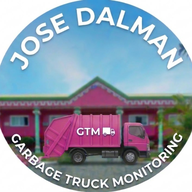
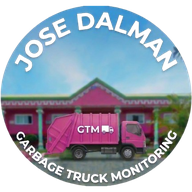
fixing PWA

diff --git a/public/js/admin/reports.js b/public/js/admin/reports.js
@@ -21,6 +21,12 @@ const API = {
             },
             body: JSON.stringify(data)
         });
+    },
+    delete: async (endpoint) => {
+        return fetch(API_URL + endpoint, {
+            method: 'DELETE',
+            headers: { Authorization: 'Bearer ' + getToken() }
+        });
     }
 };
 
@@ -167,6 +173,27 @@ async function resolveReport(id) {
     }
 }
 window.resolveReport = resolveReport;
+
+async function deleteReport(id) {
+    if (!window.confirm(`Permanently delete report #${id}? This cannot be undone.`)) return;
+
+    try {
+        const res = await API.delete(`/admin/reports/${encodeURIComponent(id)}`);
+        const result = await res.json();
+        if (!res.ok) {
+            throw new Error(result.error || result.message || 'Failed to delete report');
+        }
+
+        allReports = allReports.filter(report => String(report.id) !== String(id));
+        updateStatCards(allReports);
+        applyFilters();
+        showToast(result.message || 'Report deleted successfully', 'success');
+    } catch (err) {
+        console.error('Delete report error:', err);
+        showToast(err.message || 'Failed to delete report', 'error');
+    }
+}
+window.deleteReport = deleteReport;
 
 function fitAllPins() {
     const allPins = [...reportMarkers, ...residentMarkers];
@@ -481,9 +508,10 @@ function renderTable(data) {
                 <td class="table-muted" style="font-size:0.7rem;">${fmtDate(r.created_at)}</td>
                 <td><span class="badge ${STATUS_BADGE[r.status] || 'badge-gray'}">${STATUS_LABEL[r.status] || r.status || 'pending'}</span></td>
                 <td style="text-align:center;">${hasImage ? `<img src="${r.image_url}" class="report-img-thumb" onclick="event.stopPropagation();openLightbox('${r.image_url}')" onerror="this.style.display='none'" loading="lazy">` : '—'}</td>
-                <td style="text-align:center;display:flex;gap:4px;justify-content:center;">
+                <td class="report-actions">
                     <button class="btn btn-outline btn-sm btn-icon" onclick='event.stopPropagation();viewReport(${r.id})'><svg xmlns="http://www.w3.org/2000/svg" width="14" height="14" viewBox="0 0 24 24" fill="none" stroke="currentColor" stroke-width="2"><path d="M1 12s4-8 11-8 11 8 11 8-4 8-11 8-11-8-11-8z"/><circle cx="12" cy="12" r="3"/></svg></button>
                     ${r.status !== 'resolved' ? `<button class="btn btn-outline btn-sm btn-icon" title="Mark resolved" onclick='event.stopPropagation();resolveReport(${r.id})'><svg xmlns="http://www.w3.org/2000/svg" width="14" height="14" viewBox="0 0 24 24" fill="none" stroke="currentColor" stroke-width="2"><polyline points="20 6 9 17 4 12"/></svg></button>` : ''}
+                    <button class="btn btn-outline btn-sm btn-icon btn-delete-report" title="Delete report" aria-label="Delete report ${r.id}" onclick='event.stopPropagation();deleteReport(${r.id})'><svg xmlns="http://www.w3.org/2000/svg" width="14" height="14" viewBox="0 0 24 24" fill="none" stroke="currentColor" stroke-width="2" stroke-linecap="round" stroke-linejoin="round"><path d="M3 6h18"/><path d="M8 6V4h8v2"/><path d="m19 6-1 14H6L5 6"/><path d="M10 11v5M14 11v5"/></svg></button>
                 </td>
              </tr>`;
     }).join('');
@@ -654,7 +682,7 @@ async function loadAdminProfile() {
 Object.assign(window, {
     viewReport, viewResident, flyToReport, flyToResident,
     openLightbox, closeLightbox, setDateFilter, setStatusFilter,
-    applyFilters, toggleSat, switchTab, fitAllPins, resolveReport
+    applyFilters, toggleSat, switchTab, fitAllPins, resolveReport, deleteReport
 });
 
 // Boot

diff --git a/public/pages/admin/reports.html b/public/pages/admin/reports.html
@@ -5,7 +5,7 @@
     <meta charset="UTF-8">
     <meta name="theme-color" content="#2f855a">
     <link rel="manifest" href="/manifest.webmanifest">
-    <link rel="icon" type="image/jpeg" href="/images/jose-dalman-logo.jpeg">
+    <link rel="icon" type="image/png" href="/images/jose-dalman-logo.png">
     <link rel="apple-touch-icon" href="/images/apple-touch-icon.png">
     <meta name="apple-mobile-web-app-capable" content="yes">
     <meta name="apple-mobile-web-app-title" content="Jose Dalman">
@@ -280,7 +280,7 @@
                                     <th>Date</th>
                                     <th>Status</th>
                                     <th>Photo</th>
-                                    <th>Map</th>
+                                    <th>Actions</th>
                                 </tr>
                             </thead>
                             <tbody id="reportsBody">

diff --git a/public/pages/residents/resident-dashboard.html b/public/pages/residents/resident-dashboard.html
@@ -6,7 +6,7 @@
     <meta name="viewport" content="width=device-width, initial-scale=1.0, viewport-fit=cover">
     <meta name="theme-color" content="#2f855a">
     <link rel="manifest" href="/manifest.webmanifest">
-    <link rel="icon" type="image/jpeg" href="/images/jose-dalman-logo.jpeg">
+    <link rel="icon" type="image/png" href="/images/jose-dalman-logo.png">
     <link rel="apple-touch-icon" href="/images/apple-touch-icon.png">
     <meta name="apple-mobile-web-app-capable" content="yes">
     <meta name="apple-mobile-web-app-title" content="Jose Dalman">

diff --git a/public/pages/forgot-password.html b/public/pages/forgot-password.html
@@ -6,7 +6,7 @@
     <meta name="viewport" content="width=device-width, initial-scale=1.0">
     <meta name="theme-color" content="#2f855a">
     <link rel="manifest" href="/manifest.webmanifest">
-    <link rel="icon" type="image/jpeg" href="/images/jose-dalman-logo.jpeg">
+    <link rel="icon" type="image/png" href="/images/jose-dalman-logo.png">
     <link rel="apple-touch-icon" href="/images/apple-touch-icon.png">
     <meta name="apple-mobile-web-app-capable" content="yes">
     <meta name="apple-mobile-web-app-title" content="Jose Dalman">

diff --git a/public/pages/login.html b/public/pages/login.html
@@ -6,7 +6,7 @@
     <meta name="viewport" content="width=device-width, initial-scale=1.0">
     <meta name="theme-color" content="#2f855a">
     <link rel="manifest" href="/manifest.webmanifest">
-    <link rel="icon" type="image/jpeg" href="/images/jose-dalman-logo.jpeg">
+    <link rel="icon" type="image/png" href="/images/jose-dalman-logo.png">
     <link rel="apple-touch-icon" href="/images/apple-touch-icon.png">
     <meta name="apple-mobile-web-app-capable" content="yes">
     <meta name="apple-mobile-web-app-title" content="Jose Dalman">

diff --git a/public/pages/register.html b/public/pages/register.html
@@ -6,7 +6,7 @@
     <meta name="viewport" content="width=device-width, initial-scale=1.0">
     <meta name="theme-color" content="#2f855a">
     <link rel="manifest" href="/manifest.webmanifest">
-    <link rel="icon" type="image/jpeg" href="/images/jose-dalman-logo.jpeg">
+    <link rel="icon" type="image/png" href="/images/jose-dalman-logo.png">
     <link rel="apple-touch-icon" href="/images/apple-touch-icon.png">
     <meta name="apple-mobile-web-app-capable" content="yes">
     <meta name="apple-mobile-web-app-title" content="Jose Dalman">

diff --git a/public/pages/verify-email.html b/public/pages/verify-email.html
@@ -6,7 +6,7 @@
     <meta name="viewport" content="width=device-width, initial-scale=1.0">
     <meta name="theme-color" content="#2f855a">
     <link rel="manifest" href="/manifest.webmanifest">
-    <link rel="icon" type="image/jpeg" href="/images/jose-dalman-logo.jpeg">
+    <link rel="icon" type="image/png" href="/images/jose-dalman-logo.png">
     <link rel="apple-touch-icon" href="/images/apple-touch-icon.png">
     <meta name="apple-mobile-web-app-capable" content="yes">
     <meta name="apple-mobile-web-app-title" content="Jose Dalman">

diff --git a/public/css/admin/reports.css b/public/css/admin/reports.css
@@ -5,6 +5,18 @@
             gap: 20px;
             align-items: start;
         }
+.report-actions {
+    display: flex;
+    gap: 4px;
+    justify-content: center;
+}
+.btn-delete-report {
+    color: var(--red) !important;
+}
+.btn-delete-report:hover {
+    border-color: var(--red) !important;
+    background: rgba(248, 113, 113, .12) !important;
+}
 .badge-blue { background: rgba(96,165,250,.15); color: #60a5fa; border: 1px solid rgba(96,165,250,.3); }
         @media (max-width: 1100px) {
             .reports-layout {

diff --git a/public/pages/driver/driver-dashboard.html b/public/pages/driver/driver-dashboard.html
@@ -17,7 +17,7 @@
             document.documentElement.setAttribute("data-theme", theme);
         })();
     </script>
-    <link rel="icon" type="image/jpeg" href="/images/jose-dalman-logo.jpeg">
+    <link rel="icon" type="image/png" href="/images/jose-dalman-logo.png">
     <link rel="stylesheet" href="https://unpkg.com/leaflet@1.9.4/dist/leaflet.css" />
     <script src="https://unpkg.com/leaflet@1.9.4/dist/leaflet.js"></script>
     <script src="https://cdn.socket.io/4.7.2/socket.io.min.js"></script>

diff --git a/public/pages/admin/analytics.html b/public/pages/admin/analytics.html
@@ -5,7 +5,7 @@
     <meta charset="UTF-8">
     <meta name="theme-color" content="#2f855a">
     <link rel="manifest" href="/manifest.webmanifest">
-    <link rel="icon" type="image/jpeg" href="/images/jose-dalman-logo.jpeg">
+    <link rel="icon" type="image/png" href="/images/jose-dalman-logo.png">
     <link rel="apple-touch-icon" href="/images/apple-touch-icon.png">
     <meta name="apple-mobile-web-app-capable" content="yes">
     <meta name="apple-mobile-web-app-title" content="Jose Dalman">

diff --git a/public/pages/admin/announcements.html b/public/pages/admin/announcements.html
@@ -5,7 +5,7 @@
     <meta charset="UTF-8">
     <meta name="theme-color" content="#2f855a">
     <link rel="manifest" href="/manifest.webmanifest">
-    <link rel="icon" type="image/jpeg" href="/images/jose-dalman-logo.jpeg">
+    <link rel="icon" type="image/png" href="/images/jose-dalman-logo.png">
     <link rel="apple-touch-icon" href="/images/apple-touch-icon.png">
     <meta name="apple-mobile-web-app-capable" content="yes">
     <meta name="apple-mobile-web-app-title" content="Jose Dalman">

diff --git a/public/pages/admin/dashboard.html b/public/pages/admin/dashboard.html
@@ -5,7 +5,7 @@
     <meta charset="UTF-8">
     <meta name="theme-color" content="#2f855a">
     <link rel="manifest" href="/manifest.webmanifest">
-    <link rel="icon" type="image/jpeg" href="/images/jose-dalman-logo.jpeg">
+    <link rel="icon" type="image/png" href="/images/jose-dalman-logo.png">
     <link rel="apple-touch-icon" href="/images/apple-touch-icon.png">
     <meta name="apple-mobile-web-app-capable" content="yes">
     <meta name="apple-mobile-web-app-title" content="Jose Dalman">
